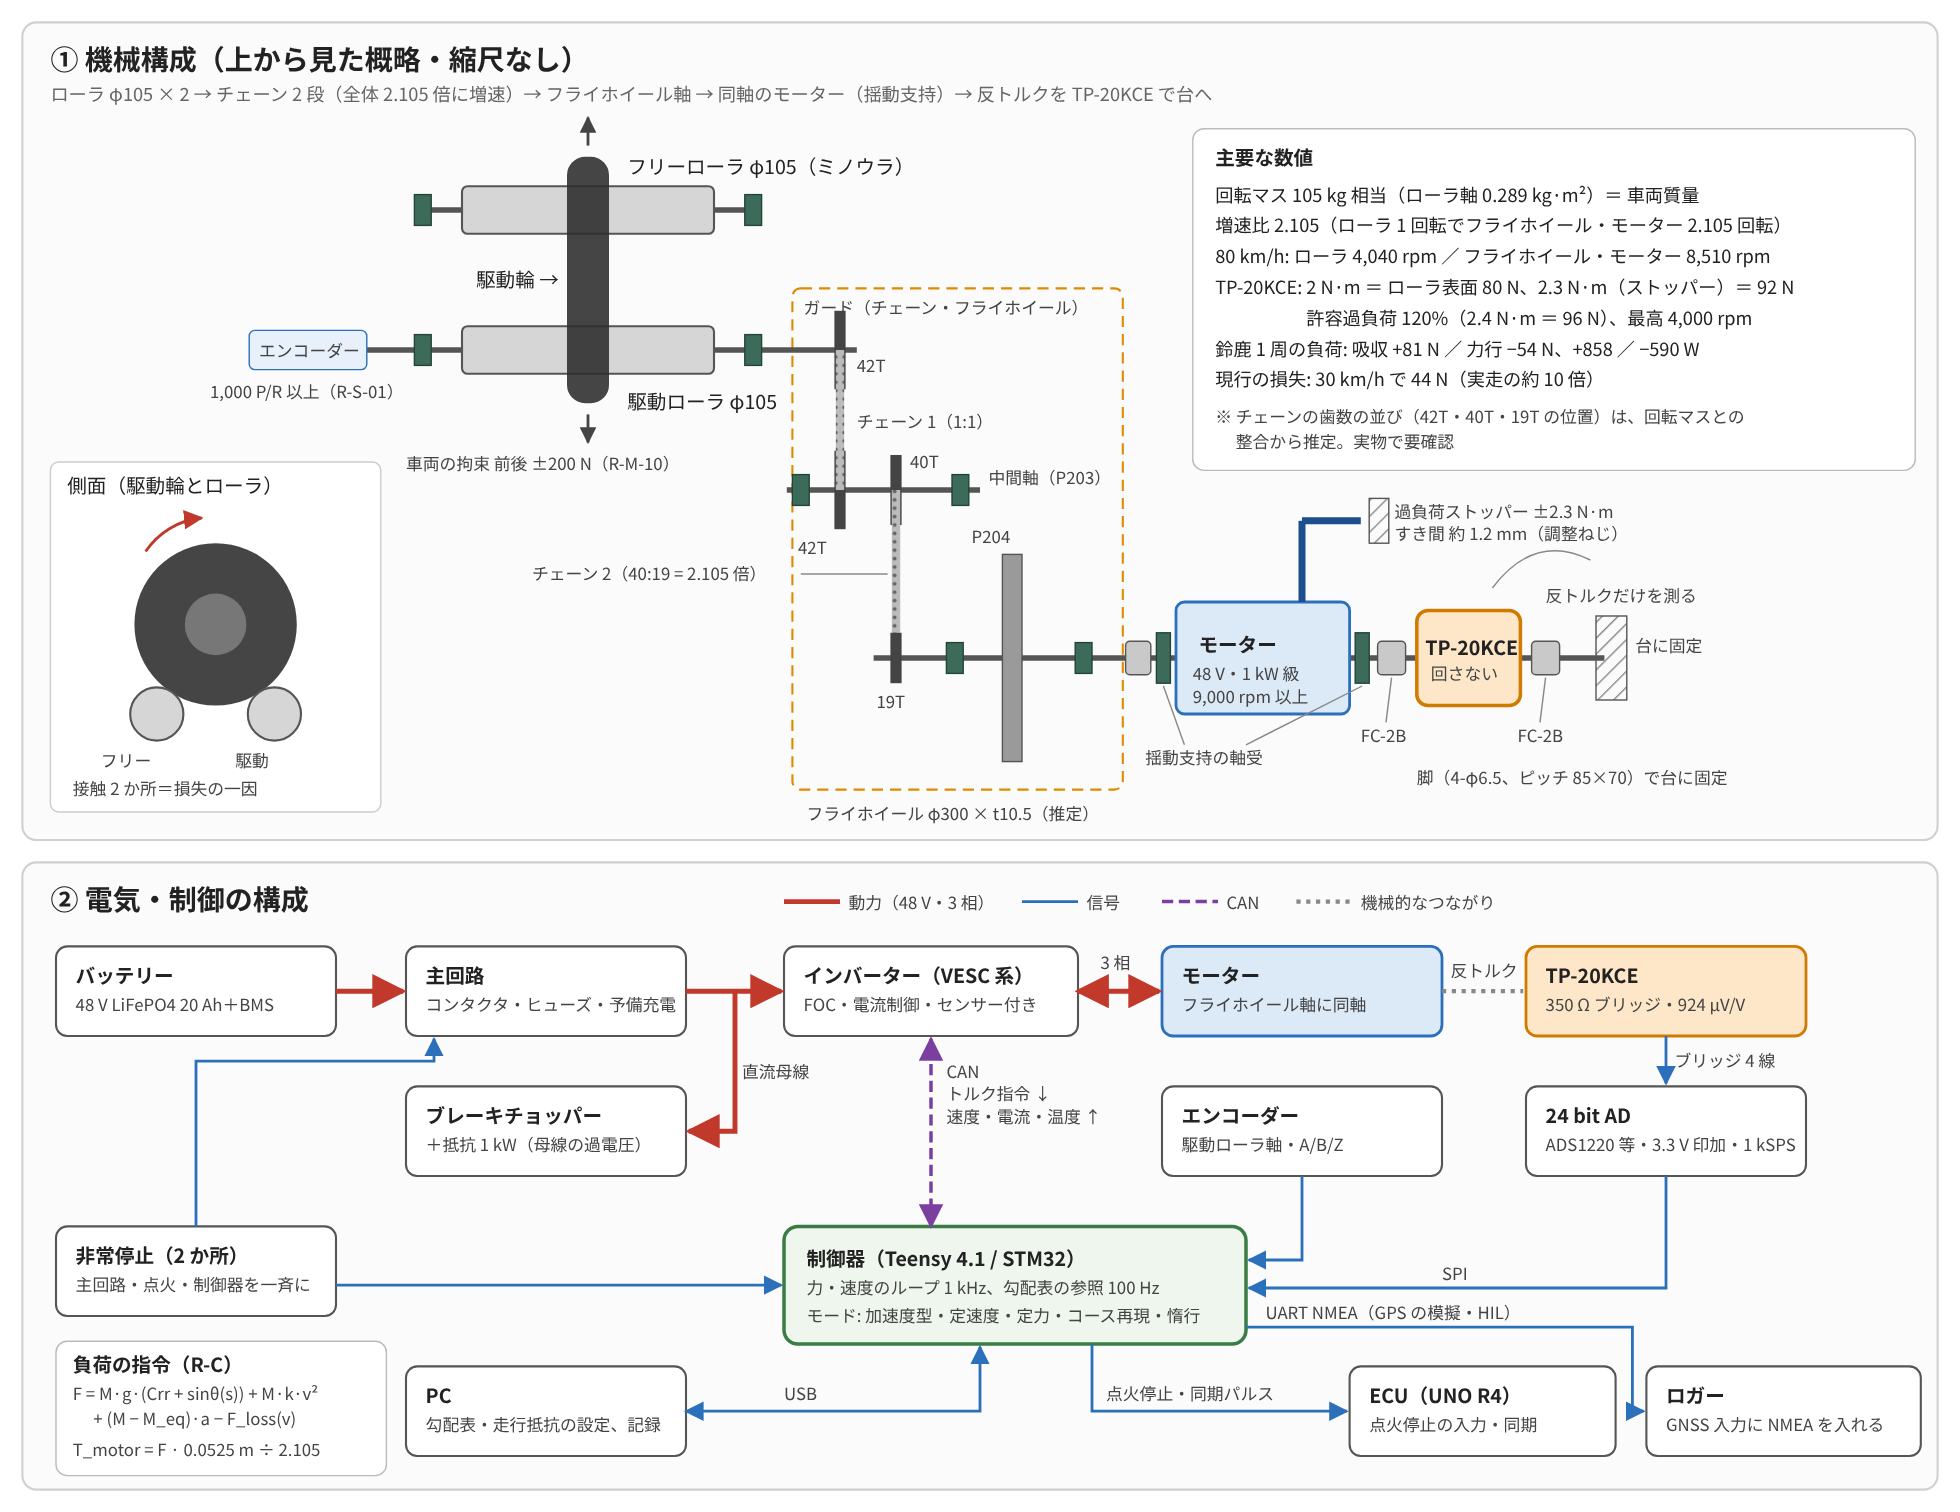
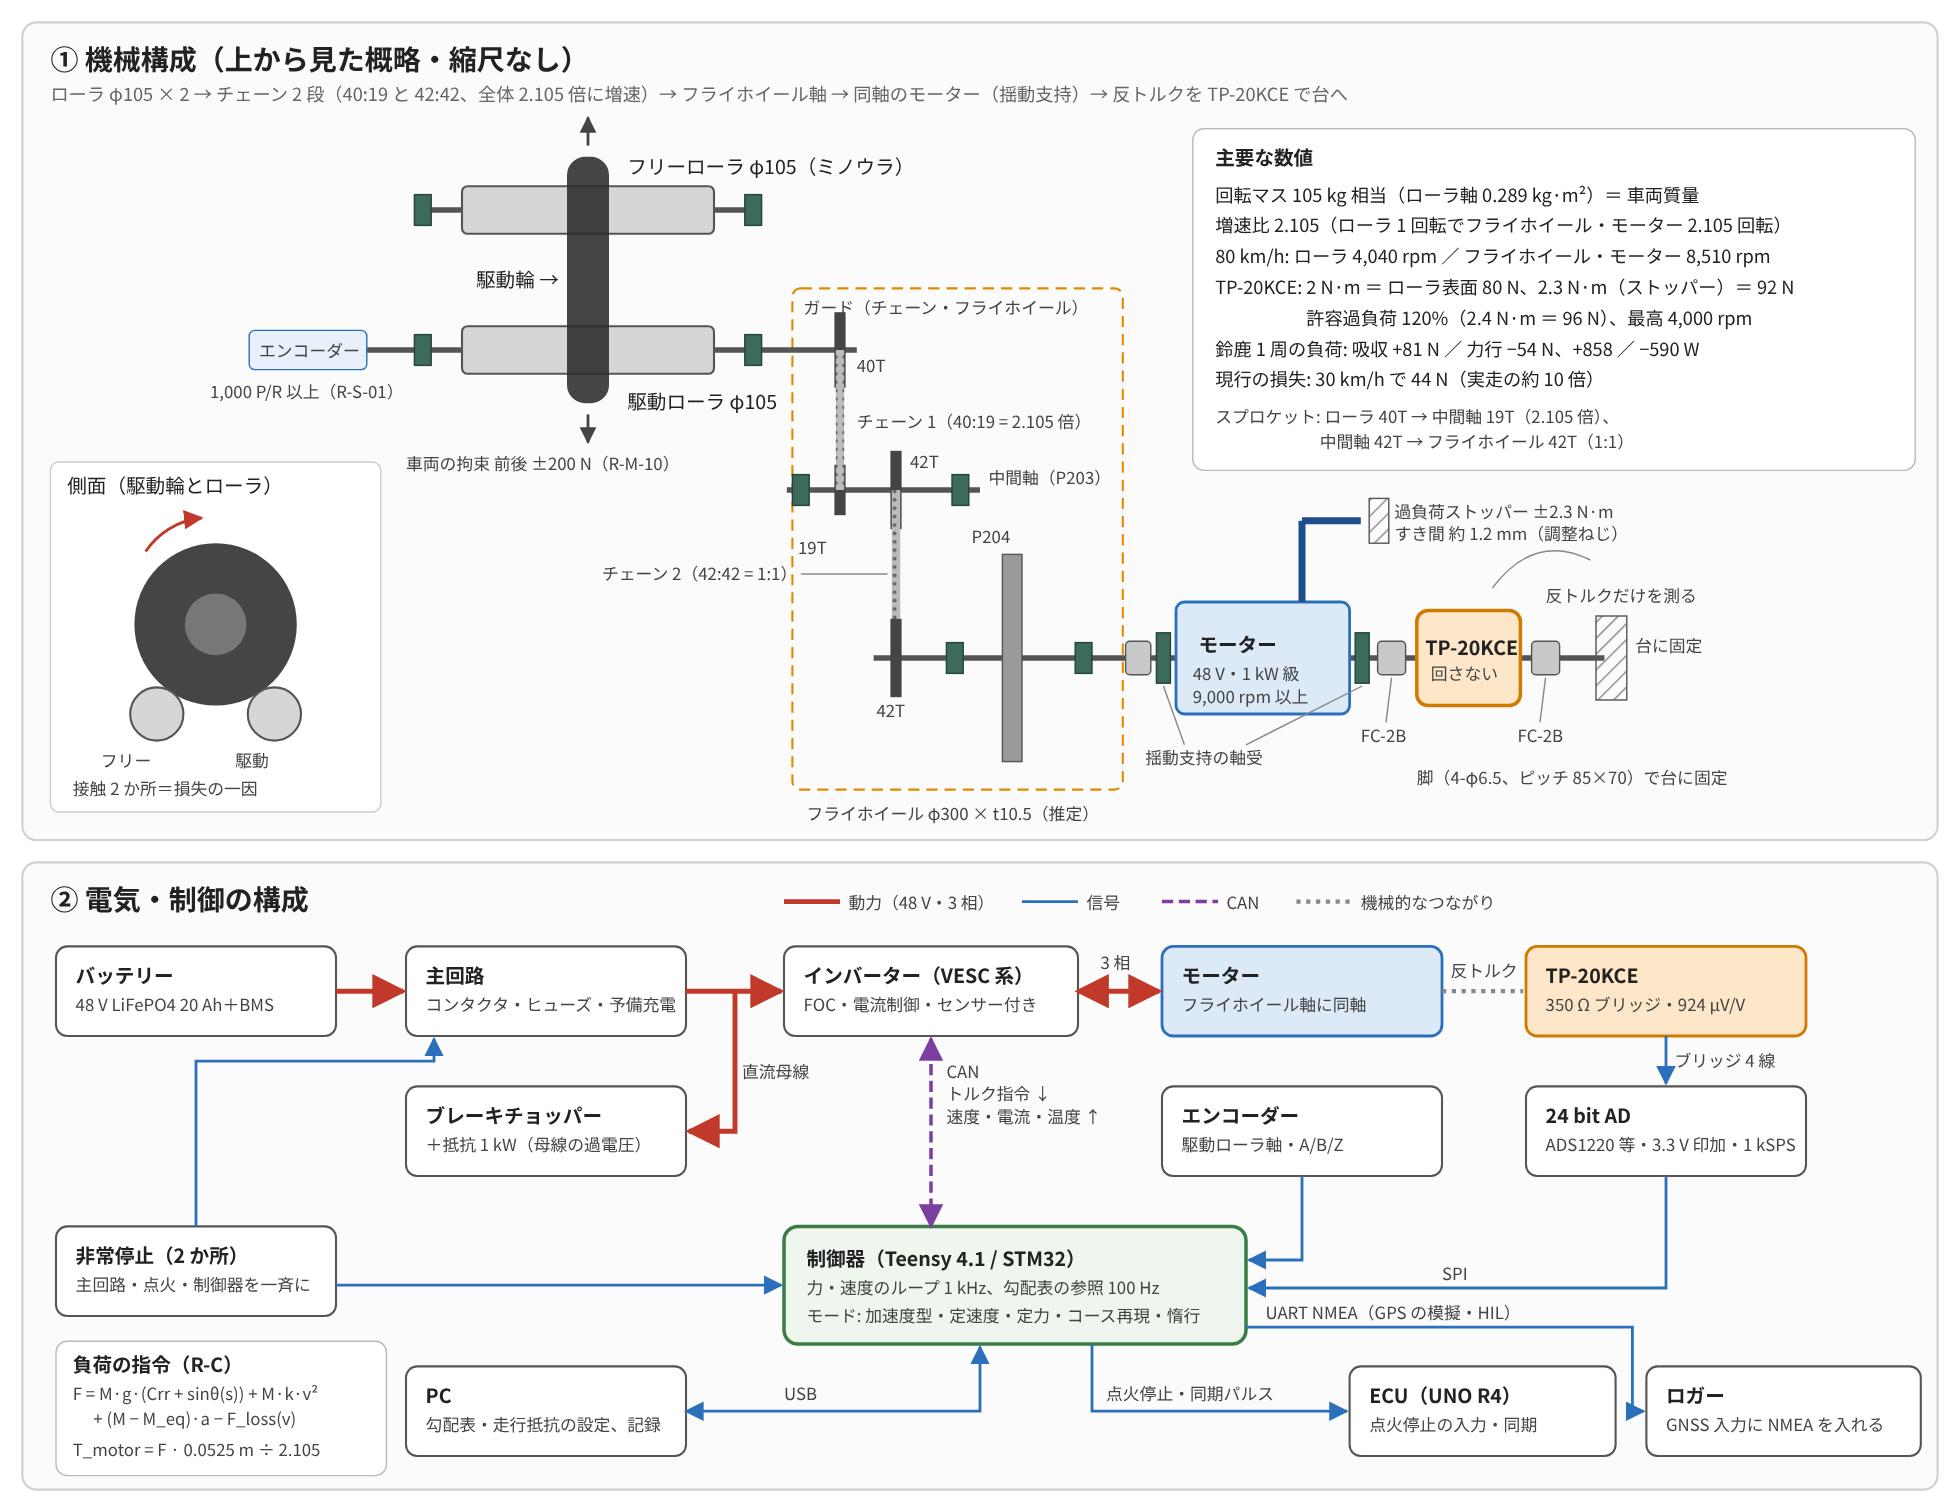
スプロケットの歯数を実物に合わせて修正
ローラ 40T → 中間軸 19T（40:19 = 2.105 倍）、中間軸 42T → フライホイール 42T（1:1）。
全体の増速比 2.105 倍は変わらないため、数値の計算はそのまま。概略図・要件定義・
TP-20KCE の検討資料の歯数の表記と「要確認」を更新。

Claude-Session: https://claude.ai/code/session_01QPKghYFdbur7XXNwidjvYs

diff --git a/docs/torque_sensor_TP-20KCE.md b/docs/torque_sensor_TP-20KCE.md
@@ -66,11 +66,11 @@
 | 項目 | 内容 |
 | --- | --- |
 | ローラ | ミノウラの自転車用ローラ台のローラ φ105 × 2 本。駆動輪を 2 本で受け、1 本はフリー、もう 1 本からチェーンでフライホイールへ |
-| チェーン | 2 段。スプロケットは 19・40・42・42 歯で、19:40 と 42:42 にチェーンを掛け、40 と 42 は中間軸で同軸固定 |
-| 増速比 | **40:19 = 2.105 倍**（ローラ 1 回転でフライホイール 2.105 回転）として扱う |
+| チェーン | 2 段。**ローラ 40T → 中間軸 19T**（40:19 = 2.105 倍）、**中間軸 42T → フライホイール 42T**（1:1）。中間軸の 19T と 42T は同軸固定 |
+| 増速比 | **2.105 倍**（ローラ 1 回転で中間軸・フライホイール軸とも 2.105 回転） |
 | 軸受 | NTN のピロー型 P203・P204 |
 
-**増速比の確認が要る**: 19 歯がローラ側で 19:40 に掛かると、全体では 19/40 × 42/42 = 0.475 倍の**減速**になり、「40:19 で約 2 倍に増速」と合わない。回転マス 105 kg 相当（φ105 ローラで 0.289 kg·m²）は、2.105 倍の増速なら φ300 × t10.5 mm の鋼板で説明でき、0.475 倍の減速なら φ300 × t205 mm が必要で写真と合わない。そこで**全体の増速比は 2.105 倍**とした（フライホイール側が 19 歯と考えられる）。
+回転マス 105 kg 相当（φ105 ローラで 0.289 kg·m²）は、2.105 倍の軸のフライホイールなら φ300 × t10.5 mm 程度の鋼板に当たり、写真と合う。中間軸とフライホイール軸は同じ回転数なので、モーターはどちらの軸端にも付けられる（取り回しのよい方を選ぶ）。
 
 **損失の内訳の候補**: LOG0650 の惰行で 30 km/h 44 N（実走の約 10 倍）。タイヤとローラの接触が 2 か所（フリーのローラも含む）、チェーン 2 段、軸受（ローラ 2 本・中間軸・フライホイール軸）、φ300 のフライホイールの風損が考えられる。車両を載せずにフライホイールを回して惰行させれば、タイヤ以外の損失を分けて測れる。
 
